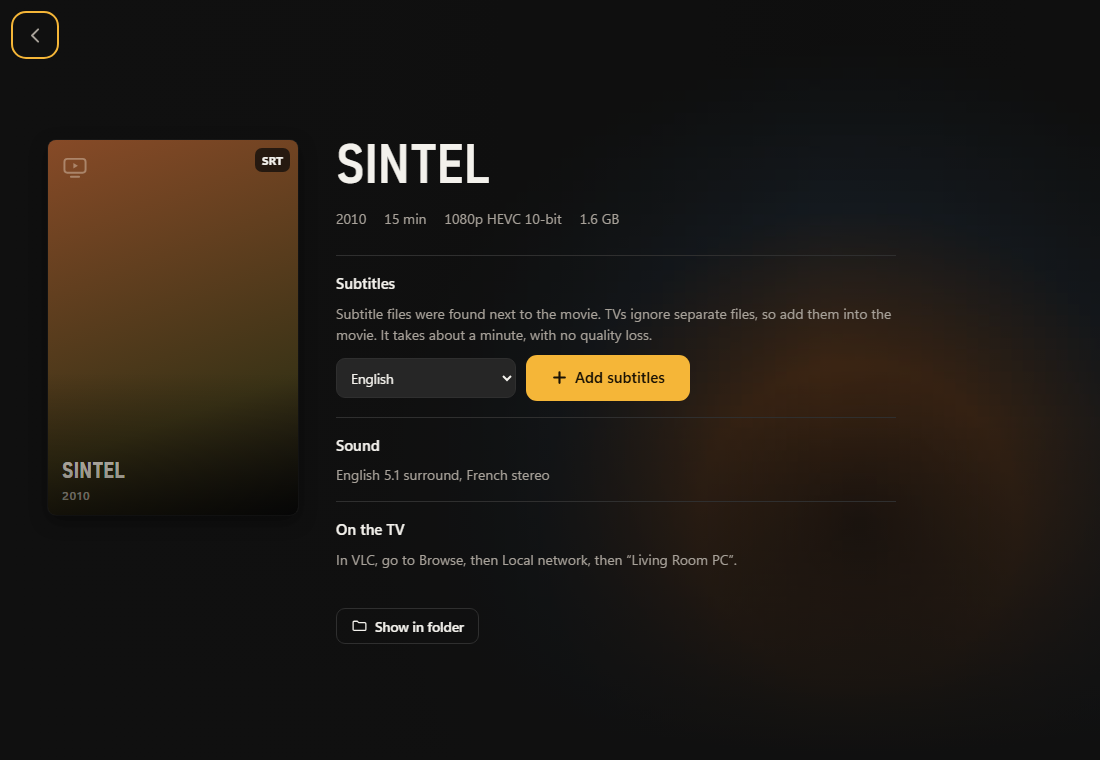
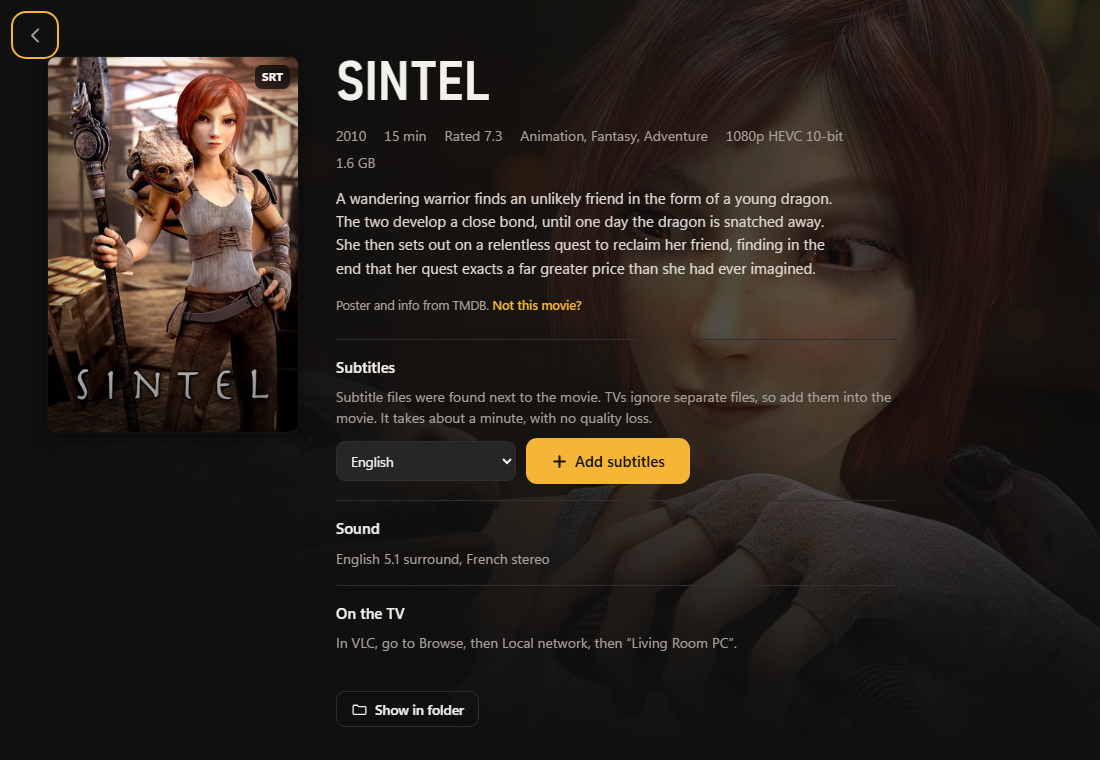
README screenshots: real TMDB posters for the sample open movies

diff --git a/README.md b/README.md
@@ -6,7 +6,7 @@
 
 TV Share makes a folder on your PC (your *Videos* folder by default) show up on your TV, over your home Wi-Fi.
 Open VLC on the TV, pick your PC, and play. On the PC, your movies appear as a dark, cinematic wall of posters.
-Posters are either official ones from [TMDB](https://www.themoviedb.org) (you choose, see *Privacy* below) or a frame taken from the movie itself (the screenshot above shows the title covers used while posters load).
+Posters are either official ones from [TMDB](https://www.themoviedb.org) (you choose, see *Privacy* below) or a frame taken from the movie itself. The screenshots show Blender's free open movies with their TMDB posters.
 Sort by *Recently added*, *A to Z* or size, and click a poster for its details: runtime, picture quality, sound
 tracks and subtitles, over a wide frame from the film.
 
